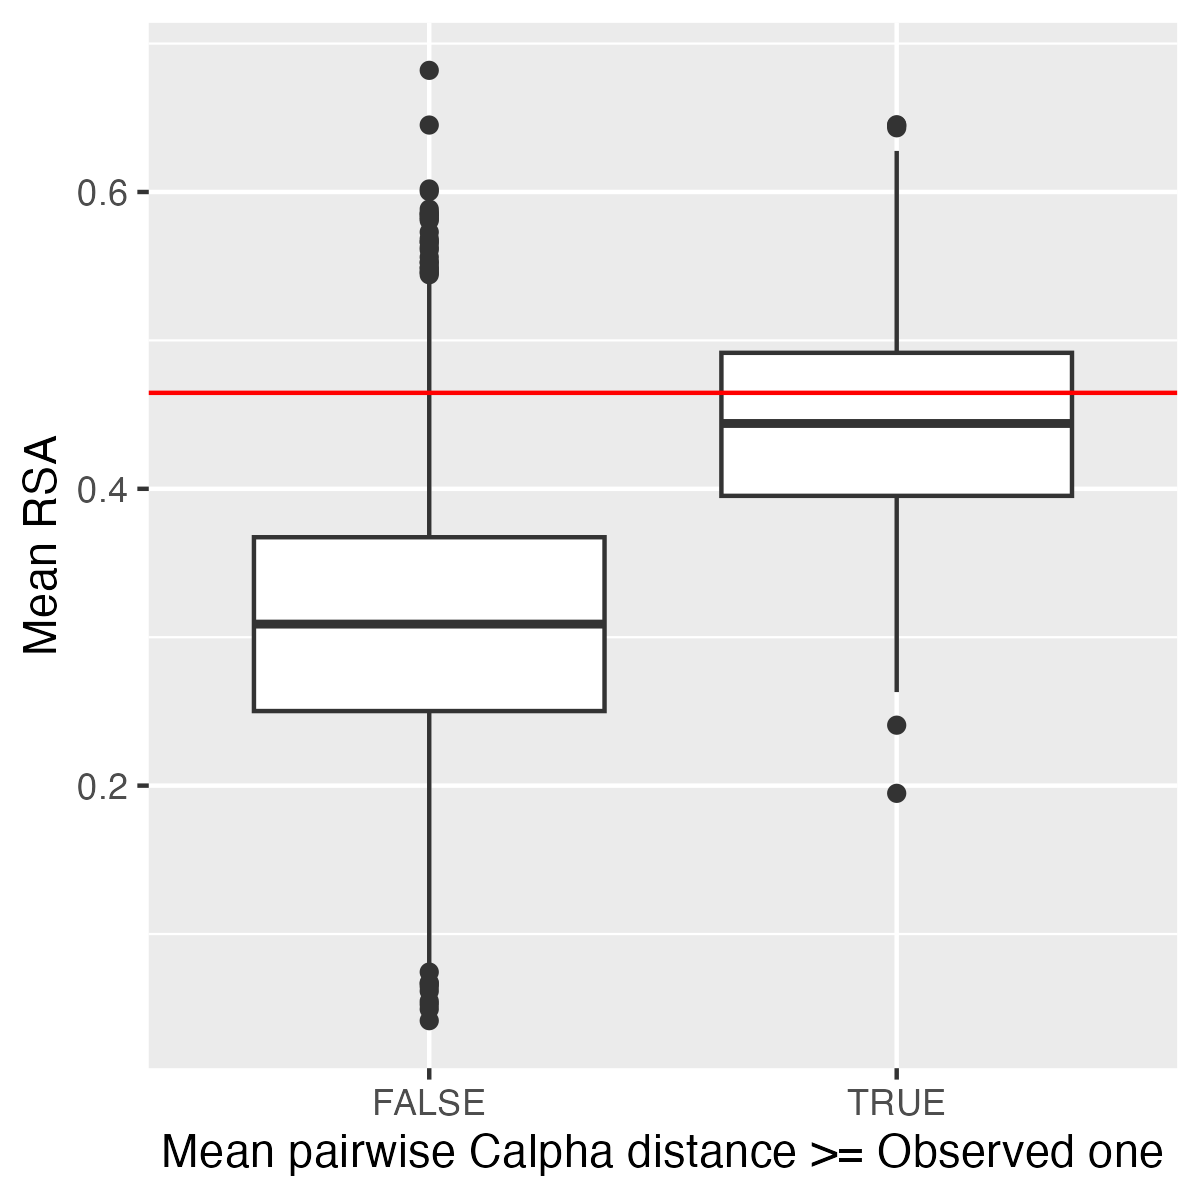
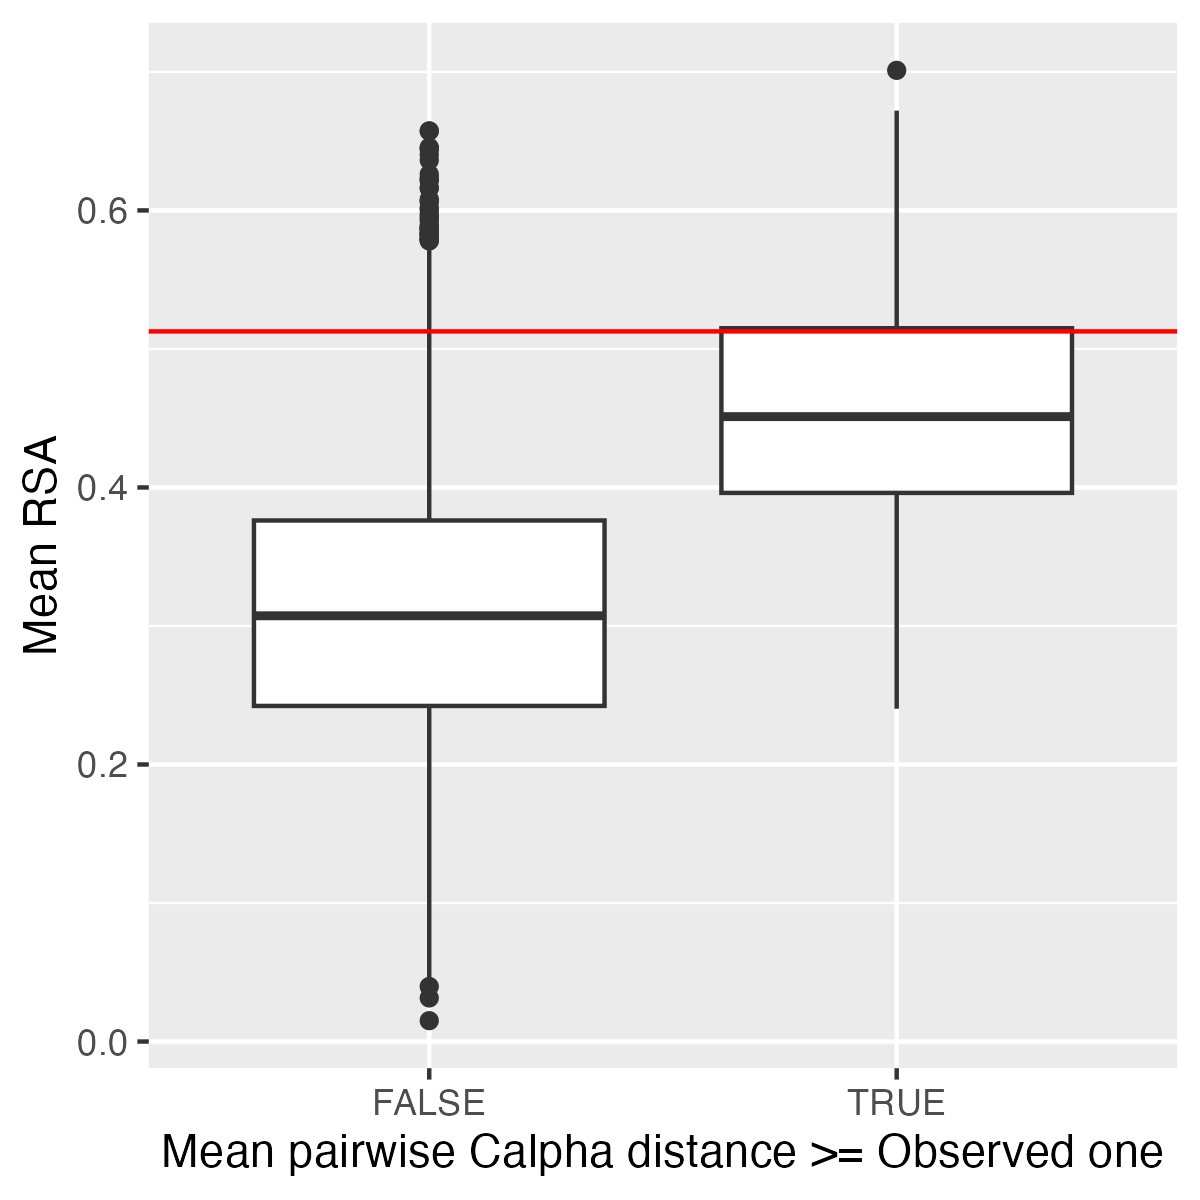
Restricted analysis to sites with p > 0.7

diff --git a/examples/paml_to_structure/README.md b/examples/paml_to_structure/README.md
@@ -44,7 +44,7 @@ codeml lysozymeLarge.ctl
 To map the positively selected sites onto a protein structure, the identified positively
 selected sites in the main result file of PAML should be extracted and converted to the
 SGED format.
-In this example, the SGED file will contain all (positively selected) sites reported by PAML.
+In this example, the SGED file will contain all (positively selected) sites reported by PAML. To follow the original publication, we will select only sites with a posterior probability at least equal to 0.7.
 
 The converting process is done with the `sged-paml2sged.py` script:
 
@@ -52,7 +52,8 @@ The converting process is done with the `sged-paml2sged.py` script:
 python3 ../../src/sged-paml2sged.py \
     --paml mlc \
     --output lysozymeLarge-possel.sged \
-    --method bayesian
+    --method bayesian \
+    --threshold 0.7
 ```
 We retrieve the sites detected by the empirical Bayesian method.
 
@@ -100,17 +101,16 @@ python3 ../../src/sged-translate-coords.py \
 Which gives:
 
 ```
-roup   PDB     amino_acid      probability
+Group   PDB     amino_acid      probability
 [14]    [A:ARG14]       R       0.859
 [21]    [A:ARG21]       R       0.858
 [23]    [A:ILE23]       I       0.853
-[37]    [A:GLY37]       G       0.510
-[41]    [NA]    R       0.710
+[41]    [NA]    R       0.71
 [50]    [NA]    R       0.704
-[62]    [A:ARG62]       R       0.564
 [87]    [A:ASP87]       D       0.869
-[126]   [A:GLN126]      Q       0.710
+[126]   [A:GLN126]      Q       0.71
 ```
+
 Two positions could not be mapped on the structure. Looking at the structure alignment, we see that it contains several gaps:
 ```
 target            0 KIFERCELARTLKKLGLDGYKGVSLANWVCLAKWESGYNTD-ATNYNP-GDE-STDYGIF
@@ -163,15 +163,14 @@ python3 ../../src/sged-translate-coords.py \
 
 Which gives:
 ```
-[14]	[A:ARG14]	R	0.859
-[21]	[A:ARG21]	R	0.858
-[23]	[A:ILE23]	I	0.853
-[37]	[A:GLY37]	G	0.510
-[41]	[A:ARG41]	R	0.710
-[50]	[A:ARG50]	R	0.704
-[62]	[A:ARG62]	R	0.564
-[87]	[A:ASP87]	D	0.869
-[126]	[A:GLN126]	Q	0.710
+Group   PDB     amino_acid      probability
+[14]    [A:ARG14]       R       0.859
+[21]    [A:ARG21]       R       0.858
+[23]    [A:ILE23]       I       0.853
+[41]    [A:ARG41]       R       0.71
+[50]    [A:ARG50]       R       0.704
+[87]    [A:ASP87]       D       0.869
+[126]   [A:GLN126]      Q       0.71
 ```
 
 ## Visualizing the 3D Protein Structure
@@ -209,11 +208,11 @@ save /path/to/final.pdb, selection=my_residues
 ## Testing structural hypotheses
 
 The positively selected residues are at the surface of the protein. To test whether this pattern could happen by chance, we can draw random sets of residues and look at the distribution of their solvent accessibility.
-First, we create a SGED file with a single group containing all (mappable) candidates:
+First, we create a SGED file with a single group containing all candidates:
 
 ```bash
 echo "Group" > lysozymeLarge-possel-group.sged
-echo "[A:ARG14;A:ARG21;A:ILE23;A:GLY37;A:ARG41;A:ARG50;A:ARG62;A:ASP87;A:GLN126]" >> lysozymeLarge-possel-group.sged
+echo "[A:ARG14;A:ARG21;A:ILE23;A:ARG41;A:ARG50;A:ASP87;A:GLN126]" >> lysozymeLarge-possel-group.sged
 ```
 
 We then compute summary structural statistics for the group:
